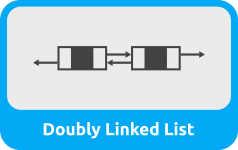
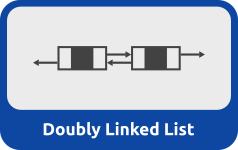
Add front & back option for position input

diff --git a/src/States/VisualSLLState.cpp b/src/States/VisualSLLState.cpp
@@ -9,6 +9,13 @@
 #include <SFML/Graphics/RenderWindow.hpp>
 #include <iostream>
 
+sf::Vector2f const firstInputPosition(650.f, 675.f);
+sf::Vector2f const firstLabelPosition(firstInputPosition +
+                                      sf::Vector2f(-100.f, -45.f));
+sf::Vector2f const secondInputPosition(650.f, 800.f);
+sf::Vector2f const secondLabelPosition(secondInputPosition +
+                                       sf::Vector2f(-100.f, -45.f));
+
 VisualSLLState::VisualSLLState(StateStack& stack, Context context)
     : VisualState(stack, context),
       mSLL(*context.fonts, *context.textures),
@@ -81,7 +88,7 @@ void VisualSLLState::loadNewGUI() {
     packOptionGUI(
         New, createNewGUIButton(
                  GUI::Button::Small,
-                 sf::Vector2f(605.f, getContext().window->getSize().y - 160.f),
+                 sf::Vector2f(600.f, getContext().window->getSize().y - 180.f),
                  "Random", [this]() { GUIArrayInput->randomizeArray(); }));
 
     packOptionGUI(
@@ -97,36 +104,49 @@ void VisualSLLState::loadNewGUI() {
 
     auto dataLabel = std::make_shared<GUI::Label>(GUI::Label::Main, "Data",
                                                   *getContext().fonts);
-    dataLabel->setPosition(555.f, getContext().window->getSize().y - 260.f);
+    dataLabel->setPosition(firstLabelPosition);
     packOptionGUI(New, dataLabel);
 
     GUIArrayInput = std::make_shared<GUI::InputArray>(*getContext().fonts,
                                                       *getContext().textures);
-    GUIArrayInput->setPosition(650.f, getContext().window->getSize().y - 210.f);
+    GUIArrayInput->setPosition(firstInputPosition);
     packOptionGUI(New, GUIArrayInput);
 }
 
 void VisualSLLState::loadAddGUI() {
     auto indexLabel = std::make_shared<GUI::Label>(GUI::Label::Main, "Position",
                                                    *getContext().fonts);
-    indexLabel->setPosition(555.f, getContext().window->getSize().y - 250.f);
+    indexLabel->setPosition(firstLabelPosition);
     packOptionGUI(Add, indexLabel);
 
     GUIIndexInput[Add] = std::make_shared<GUI::InputNumber>(
         *getContext().fonts, *getContext().textures);
-    GUIIndexInput[Add]->setPosition(650.f,
-                                    getContext().window->getSize().y - 205.f);
+    GUIIndexInput[Add]->setPosition(firstInputPosition);
     packOptionGUI(Add, GUIIndexInput[Add]);
+
+    // front option
+    packOptionGUI(
+        Add, createNewGUIButton(
+                 GUI::Button::Small,
+                 sf::Vector2f(600.f, getContext().window->getSize().y - 180.f),
+                 "Front", [this]() { GUIIndexInput[Add]->setValue(0); }));
+
+    // back option
+    packOptionGUI(
+        Add, createNewGUIButton(
+                 GUI::Button::Small,
+                 sf::Vector2f(700.f, getContext().window->getSize().y - 180.f),
+                 "Back",
+                 [this]() { GUIIndexInput[Add]->setValue(mSLL.getSize()); }));
 
     auto valueLabel = std::make_shared<GUI::Label>(GUI::Label::Main, "Value",
                                                    *getContext().fonts);
-    valueLabel->setPosition(555.f, getContext().window->getSize().y - 170.f);
+    valueLabel->setPosition(secondLabelPosition);
     packOptionGUI(Add, valueLabel);
 
     GUIValueInput[Add] = std::make_shared<GUI::InputNumber>(
         *getContext().fonts, *getContext().textures);
-    GUIValueInput[Add]->setPosition(650.f,
-                                    getContext().window->getSize().y - 125.f);
+    GUIValueInput[Add]->setPosition(secondInputPosition);
     GUIValueInput[Add]->setRange(Constants::NODE_MINVALUE,
                                  Constants::NODE_MAXVALUE);
     packOptionGUI(Add, GUIValueInput[Add]);
@@ -135,25 +155,40 @@ void VisualSLLState::loadAddGUI() {
 void VisualSLLState::loadDeleteGUI() {
     auto indexLabel = std::make_shared<GUI::Label>(GUI::Label::Main, "Position",
                                                    *getContext().fonts);
-    indexLabel->setPosition(555.f, getContext().window->getSize().y - 250.f);
+    indexLabel->setPosition(firstLabelPosition);
     packOptionGUI(Delete, indexLabel);
 
     GUIIndexInput[Delete] = std::make_shared<GUI::InputNumber>(
         *getContext().fonts, *getContext().textures);
-    GUIIndexInput[Delete]->setPosition(
-        650.f, getContext().window->getSize().y - 205.f);
+    GUIIndexInput[Delete]->setPosition(firstInputPosition);
     packOptionGUI(Delete, GUIIndexInput[Delete]);
+
+    // front option
+    packOptionGUI(
+        Delete,
+        createNewGUIButton(
+            GUI::Button::Small,
+            sf::Vector2f(600.f, getContext().window->getSize().y - 180.f),
+            "Front", [this]() { GUIIndexInput[Delete]->setValue(0); }));
+
+    // back option
+    packOptionGUI(
+        Delete,
+        createNewGUIButton(
+            GUI::Button::Small,
+            sf::Vector2f(700.f, getContext().window->getSize().y - 180.f),
+            "Back",
+            [this]() { GUIIndexInput[Delete]->setValue(mSLL.getSize() - 1); }));
 }
 
 void VisualSLLState::loadSearchGUI() {
     auto valueLabel = std::make_shared<GUI::Label>(GUI::Label::Main, "By value",
                                                    *getContext().fonts);
-    valueLabel->setPosition(555.f, getContext().window->getSize().y - 250.f);
+    valueLabel->setPosition(firstLabelPosition);
 
     GUIValueInput[Search] = std::make_shared<GUI::InputNumber>(
         *getContext().fonts, *getContext().textures);
-    GUIValueInput[Search]->setPosition(
-        650.f, getContext().window->getSize().y - 205.f);
+    GUIValueInput[Search]->setPosition(firstInputPosition);
     GUIValueInput[Search]->setRange(Constants::NODE_MINVALUE,
                                     Constants::NODE_MAXVALUE);
 
@@ -164,24 +199,39 @@ void VisualSLLState::loadSearchGUI() {
 void VisualSLLState::loadUpdateGUI() {
     auto indexLabel = std::make_shared<GUI::Label>(GUI::Label::Main, "Position",
                                                    *getContext().fonts);
-    indexLabel->setPosition(555.f, getContext().window->getSize().y - 250.f);
+    indexLabel->setPosition(firstLabelPosition);
     packOptionGUI(Update, indexLabel);
 
     GUIIndexInput[Update] = std::make_shared<GUI::InputNumber>(
         *getContext().fonts, *getContext().textures);
-    GUIIndexInput[Update]->setPosition(
-        650.f, getContext().window->getSize().y - 205.f);
+    GUIIndexInput[Update]->setPosition(firstInputPosition);
     packOptionGUI(Update, GUIIndexInput[Update]);
+
+    // front option
+    packOptionGUI(
+        Update,
+        createNewGUIButton(
+            GUI::Button::Small,
+            sf::Vector2f(600.f, getContext().window->getSize().y - 180.f),
+            "Front", [this]() { GUIIndexInput[Update]->setValue(0); }));
+
+    // back option
+    packOptionGUI(
+        Update,
+        createNewGUIButton(
+            GUI::Button::Small,
+            sf::Vector2f(700.f, getContext().window->getSize().y - 180.f),
+            "Back",
+            [this]() { GUIIndexInput[Update]->setValue(mSLL.getSize() - 1); }));
 
     auto valueLabel = std::make_shared<GUI::Label>(
         GUI::Label::Main, "New value", *getContext().fonts);
-    valueLabel->setPosition(555.f, getContext().window->getSize().y - 170.f);
+    valueLabel->setPosition(secondLabelPosition);
     packOptionGUI(Update, valueLabel);
 
     GUIValueInput[Update] = std::make_shared<GUI::InputNumber>(
         *getContext().fonts, *getContext().textures);
-    GUIValueInput[Update]->setPosition(
-        650.f, getContext().window->getSize().y - 125.f);
+    GUIValueInput[Update]->setPosition(secondInputPosition);
     GUIValueInput[Update]->setRange(Constants::NODE_MINVALUE,
                                     Constants::NODE_MAXVALUE);
     packOptionGUI(Update, GUIValueInput[Update]);

diff --git a/src/GUI/Console.cpp b/src/GUI/Console.cpp
@@ -1,6 +1,6 @@
+#include <Constants.hpp>
 #include <GUI/Console.hpp>
 #include <Graphics/ResourceHolder.hpp>
-
 namespace GUI {
 Console::Console(const FontHolder& fonts)
     : Label(Mono, "", fonts), currentType(Info) {}
@@ -26,11 +26,11 @@ Console::LogType Console::getLogType() const {
 sf::Color Console::getColorFromType(LogType type) const {
     switch (type) {
         case Info:
-            return sf::Color(13, 71, 161);
+            return Constants::mBlue;
         case Error:
             return sf::Color(183, 28, 28);
         default:
-            return sf::Color(13, 71, 161);
+            return Constants::mBlue;
     }
 }
 

diff --git a/inc/Random.hpp b/inc/Random.hpp
@@ -1,8 +1,14 @@
 #ifndef RANDOM_HPP
 #define RANDOM_HPP
 
-namespace Random {
-	int get(int Min, int Max);
-};
+#include <ctime>
+#include <random>
 
-#endif // RANDOM_HPP
+namespace Random {
+std::mt19937 rng(time(nullptr));
+
+int get(int Min, int Max);
+
+};  // namespace Random
+
+#endif  // RANDOM_HPP

diff --git a/inc/Constants.hpp b/inc/Constants.hpp
@@ -20,7 +20,7 @@ float const PI = 3.14159265;
 sf::Color const mBlack(66, 66, 66);
 sf::Color const mBlue(13, 71, 161);
 sf::Color const WhiteDisplay(sf::Color::White);
-sf::Color const WhiteUI(238, 238, 238);
+sf::Color const WhiteUI(245, 245, 245);
 sf::Color const GrayBorder(189, 189, 189);
 
 // Input

diff --git a/src/Random.cpp b/src/Random.cpp
@@ -1,9 +1,5 @@
 #include <Random.hpp>
-#include <ctime>
-#include <random>
-
-std::mt19937 rng(time(nullptr));
 
 int Random::get(int Min, int Max) {
-	return std::uniform_int_distribution<int>(Min, Max)(rng);
+    return std::uniform_int_distribution<int>(Min, Max)(rng);
 }
